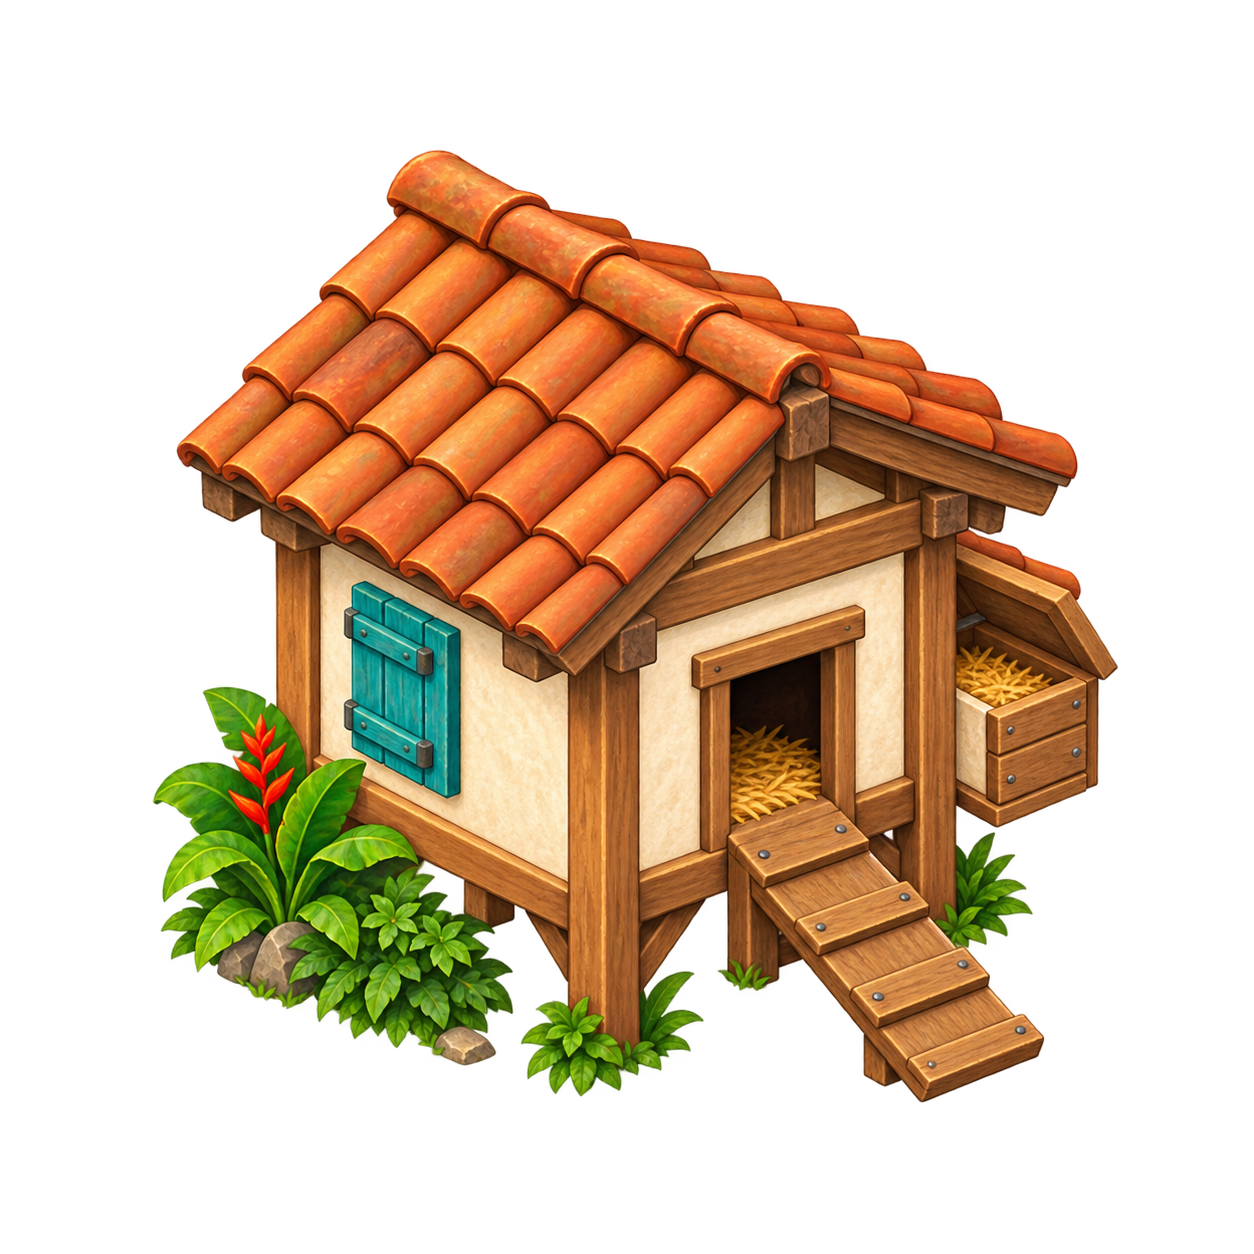
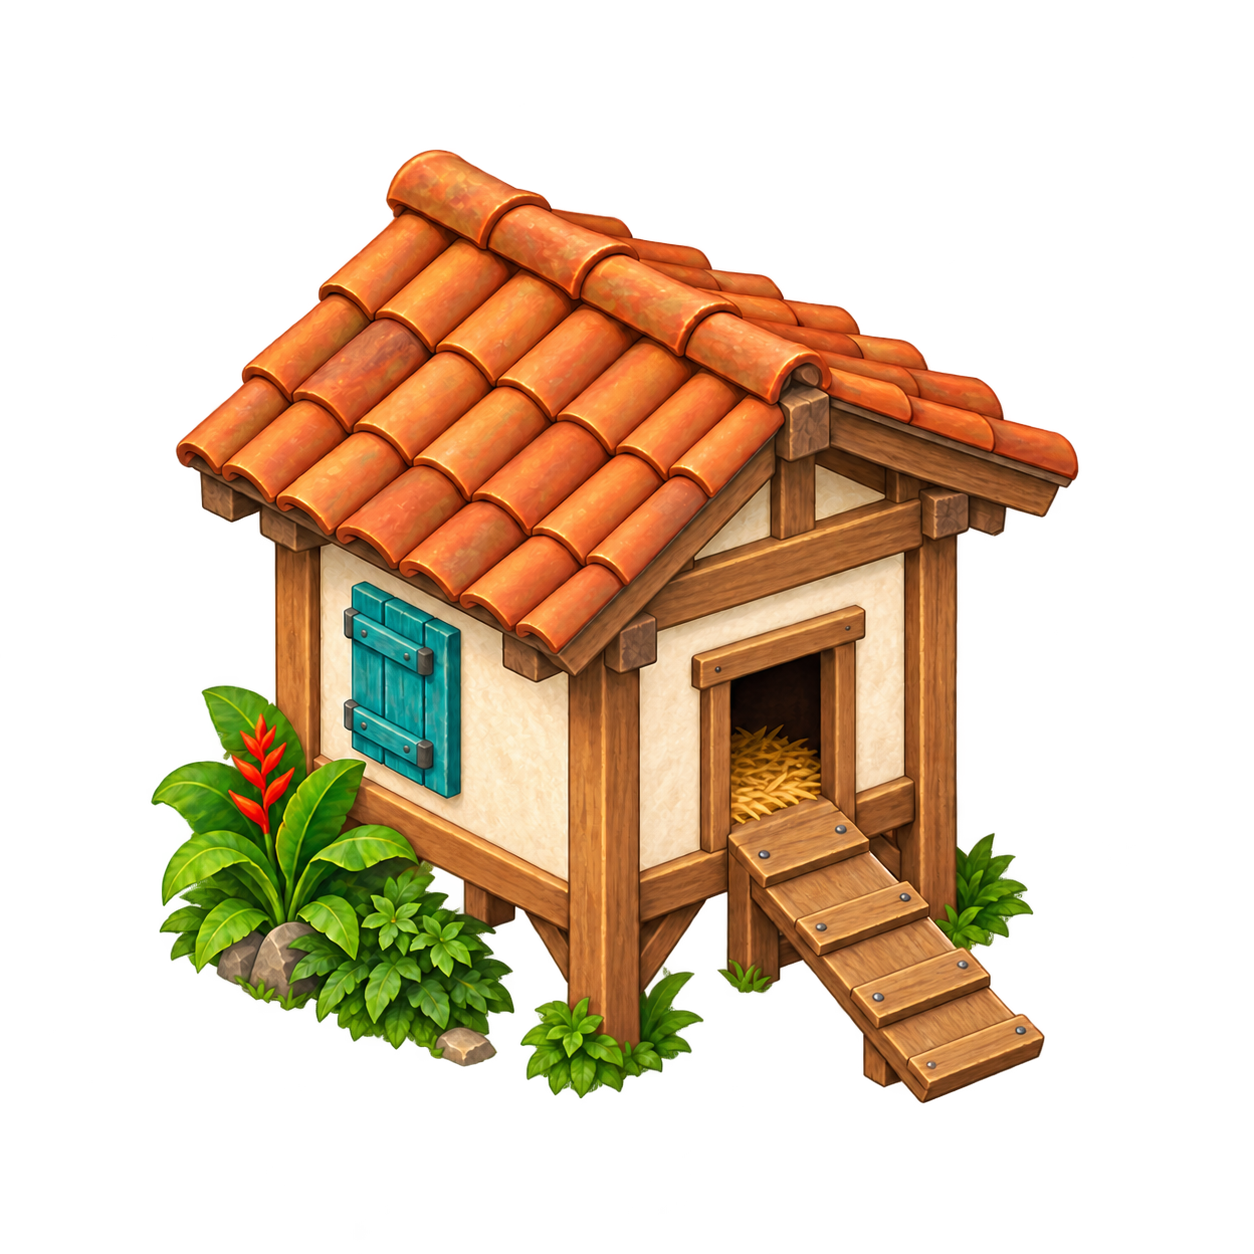
Remove the exterior hay box from the chicken coop

diff --git a/web/index.html b/web/index.html
@@ -5,7 +5,7 @@
     <meta name="viewport" content="width=device-width,initial-scale=1" />
     <meta name="theme-color" content="#263e30" />
     <title>Solar Friends · Vila Aurora</title>
-    <link rel="stylesheet" href="style.css?v=coop-art-2" />
+    <link rel="stylesheet" href="style.css?v=coop-art-3" />
   </head>
   <body>
     <div id="loading">
@@ -228,6 +228,6 @@
       <button id="cancel-restart">Keep this village</button>
       <button id="confirm-restart" class="primary">Start new village</button>
     </dialog>
-    <script type="module" src="main.js?v=coop-art-2"></script>
+    <script type="module" src="main.js?v=coop-art-3"></script>
   </body>
 </html>

diff --git a/web/main.js b/web/main.js
@@ -55,7 +55,7 @@ gardenArt.src = "art/garden-simple-isometric.png";
 const questArt = Object.fromEntries(
   ["compost", "square", "workshop", "coop"].map((kind) => {
     const image = new Image();
-    image.src = `art/${kind}-isometric.png`;
+    image.src = `art/${kind}-isometric.png${kind === "coop" ? "?v=3" : ""}`;
     return [kind, image];
   }),
 );

diff --git a/web/style.css b/web/style.css
@@ -1337,5 +1337,5 @@ button:focus-visible {
 }
 
 .build-tool[data-kind="coop"] .tool-art {
-  background: url("art/coop-isometric.png") center / contain no-repeat;
+  background: url("art/coop-isometric.png?v=3") center / contain no-repeat;
 }

diff --git a/assets/art-direction/chicken-coop-prompt.md b/assets/art-direction/chicken-coop-prompt.md
@@ -5,3 +5,7 @@ Generated with the built-in image generation tool using `web/art/workshop-isomet
 ## Prompt
 
 Transform the workshop in reference 1 into a small chicken coop production sprite for the SAME Solar Friends game. Reference 2 is the existing village sprite atlas: match its warm painted materials, terracotta tile roof, cream plaster, turquoise accents, soft modeled shading, organic texture and elevated orthographic camera exactly. Output ONE isolated compact chicken coop on a square genuinely transparent canvas, NOT an atlas. Small raised wooden henhouse with cream limewashed panels, warm timber framing, orange curved terracotta roof tiles, a small turquoise shutter, dark hen doorway and short timber ramp pointing toward lower right; a modest side nesting box with a little straw, sparse tropical plants at base. Whole silhouette visible with generous transparent margins. Ground axes 2:1, vertical uprights, no perspective convergence. Footprint center horizontally at 76 percent canvas height, structure occupying roughly 80 percent canvas width. Upper-left warm light. Match reference detail density and hand-painted game sprite appearance, NOT flat vector, NOT line art, NOT low-poly. No chickens baked into sprite (animated separately), no people, no labels or text, no large ground tile, no background scenery, no external cast shadow. Preserve true transparency.
+
+## Final edit: remove the side hay box
+
+Make one precise local edit to this existing game sprite: completely REMOVE the protruding hay-filled box on the RIGHT side, including its hinged sloping lid/mini roof and all its contents and hardware. That exterior side attachment must disappear entirely, leaving transparent background in its former silhouette and a normal clean continuation of the coop wall where needed. Do not replace it with anything. Preserve everything else as closely as possible: the main terracotta tiled roof, cream plaster, timber frame and raised legs, turquoise left shutter, central hen doorway with interior straw, front ramp, tropical plants, warm hand-painted style, lighting, isometric camera, scale, placement and square canvas. Maintain genuine alpha transparency. No additional objects.
